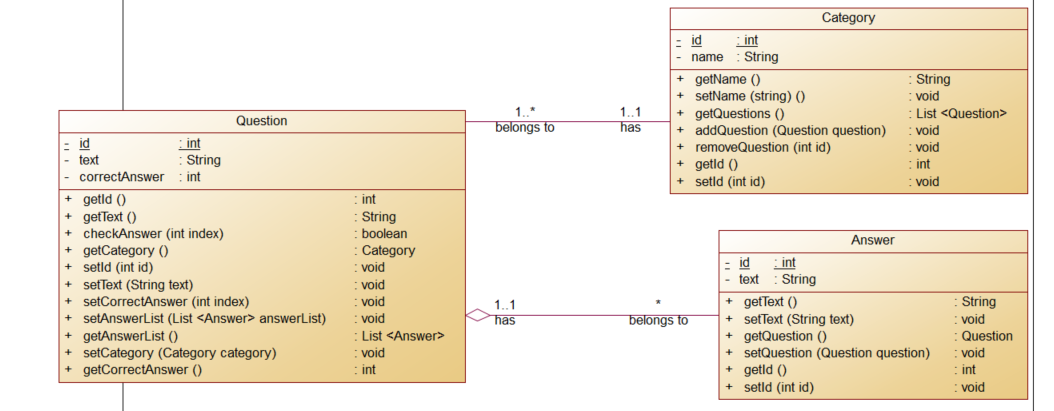
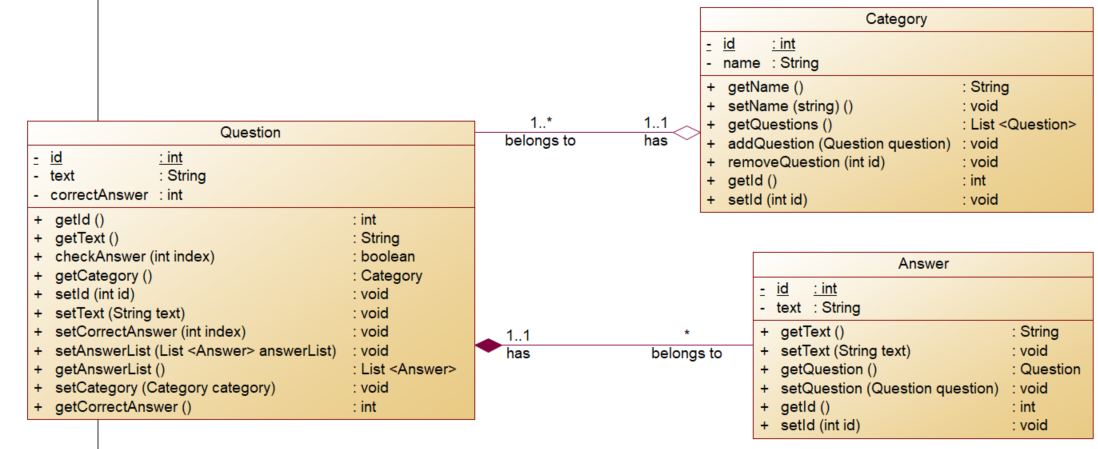
1. Answer & Category: - removed original (not empty) constructors and added ones without id - removed setId methods because of GeneratedValue
2. Lab01DataImpl:
- removed category- & answer-id as well as lines of code where they are used
- adjusted 2 lines of code to match new constructors

3. Added Annonations to category, question & answer

4. Added physical data model

5. Partially implemented lab01 (currently with major issues)

Test is failing. I changed init function, i made it all messed up.. Gotta check out again whats going on.

Changed region(s): [[0.0, 0.0, 1.0, 0.9927]]

diff --git a/src/main/java/de/hda/fbi/db2/stud/entity/Answer.java b/src/main/java/de/hda/fbi/db2/stud/entity/Answer.java
@@ -1,26 +1,21 @@
 package de.hda.fbi.db2.stud.entity;
 
 import java.util.Objects;
-import javax.persistence.Entity;
-import javax.persistence.GeneratedValue;
-import javax.persistence.GenerationType;
-import javax.persistence.Id;
-import javax.persistence.ManyToOne;
-import javax.persistence.SequenceGenerator;
-import javax.persistence.Table;
+import javax.persistence.*;
 
-@Entity
-@Table(name = "Answer", schema = "db2")
+@Embeddable
+//@Table(name = "Answer", schema = "db2")
 public class Answer {
   @Id
   @GeneratedValue(strategy = GenerationType.SEQUENCE, generator = "Answer_id_generator")
   @SequenceGenerator(name = "Answer_id_generator", sequenceName = "db2.answer_id")
   private int id;
   private String text;
-  @ManyToOne
-  private Question question;
+ // @ManyToOne
+ // private Question question;
 
-  public Answer() {}
+  public Answer() {
+  }
 
   public Answer(String text) {
     this.text = text;
@@ -34,32 +29,32 @@ public class Answer {
     this.text = text;
   }
 
-  public Question getQuestion() {
-    return question;
-  }
+ // public Question getQuestion() {
+ //   return question;
+ // }
 
-  public void setQuestion(Question question) {
-    this.question = question;
-  }
+ // public void setQuestion(Question question) {
+ //   this.question = question;
+ // }
 
-  public int getId() {
-    return id;
-  }
+  //public int getId() {
+  //  return id;
+  //}
 
-  @Override
-  public boolean equals(Object o) {
-    if (this == o) {
-      return true;
-    }
-    if (o == null || getClass() != o.getClass()) {
-      return false;
-    }
-    Answer answer = (Answer) o;
-    return id == answer.id;
-  }
+// @Override
+// public boolean equals(Object o) {
+//   if (this == o) {
+//     return true;
+//   }
+//   if (o == null || getClass() != o.getClass()) {
+//     return false;
+//   }
+//   Answer answer = (Answer) o;
+//   return id == answer.id;
+// }
 
-  @Override
-  public int hashCode() {
-    return Objects.hash(id);
-  }
+// @Override
+// public int hashCode() {
+//   return Objects.hash(id);
+// }
 }

diff --git a/src/main/java/de/hda/fbi/db2/stud/entity/Question.java b/src/main/java/de/hda/fbi/db2/stud/entity/Question.java
@@ -2,24 +2,18 @@ package de.hda.fbi.db2.stud.entity;
 
 import java.util.List;
 import java.util.Objects;
-import javax.persistence.CascadeType;
-import javax.persistence.Entity;
-import javax.persistence.Id;
-import javax.persistence.ManyToOne;
-import javax.persistence.OneToMany;
-import javax.persistence.OrderBy;
-import javax.persistence.OrderColumn;
-import javax.persistence.Table;
+import javax.persistence.*;
 
 @Entity
-@Table(name = "Question", schema = "db2")
+//@Table(name = "Question", schema = "db2")
 public class Question {
   @Id
   private int id;
   private String text;
   private int correctAnswer;
-  @OneToMany(mappedBy = "question")
-  @OrderBy
+ // @OneToMany(mappedBy = "question")
+ // @OrderColumn (name = "position")
+  @ElementCollection
   private List<Answer> answerList;
   @ManyToOne
   private Category category;

diff --git a/src/main/java/de/hda/fbi/db2/stud/impl/Lab02EntityManagerImpl.java b/src/main/java/de/hda/fbi/db2/stud/impl/Lab02EntityManagerImpl.java
@@ -43,12 +43,12 @@ public class Lab02EntityManagerImpl extends Lab02EntityManager {
       tx.begin();
       List<Question> allQuestions = lab01Data.getQuestions();
       for (Question q : allQuestions) {
-        List<Answer> possibleAnswers = q.getAnswerList();
-        for (Answer a: possibleAnswers) {
-          if (!em.contains(a)) {
-            em.persist(a);
-          }
-        }
+       // List<Answer> possibleAnswers = q.getAnswerList();
+       // for (Answer a: possibleAnswers) {
+       //   if (!em.contains(a)) {
+       //     em.persist(a);
+       //   }
+       // }
         if (!em.contains(q)) {
           em.persist(q);
         }

diff --git a/src/main/java/de/hda/fbi/db2/stud/impl/Lab01DataImpl.java b/src/main/java/de/hda/fbi/db2/stud/impl/Lab01DataImpl.java
@@ -43,9 +43,9 @@ public class Lab01DataImpl extends Lab01Data {
         for (int i = 2; i < 6; i++) {
           answerBuffer.add(new Answer(row[i]));
         }
-        for (Answer a: answerBuffer) {
-          a.setQuestion(questionBuffer);
-        }
+       // for (Answer a: answerBuffer) {
+       //   a.setQuestion(questionBuffer);
+       // }
         questionList.put(questionBuffer.getId(), questionBuffer);
         categoryBuffer.addQuestion(questionBuffer);
 
